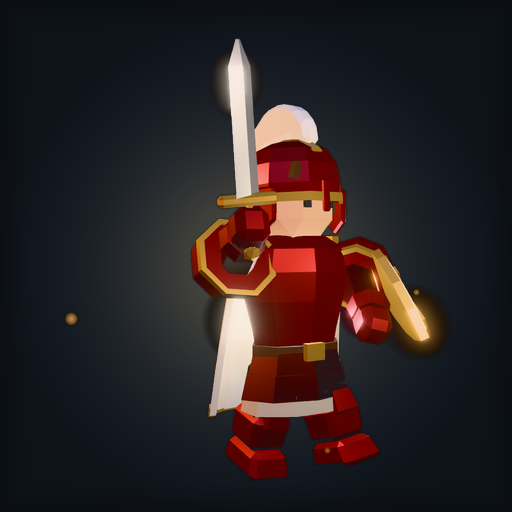
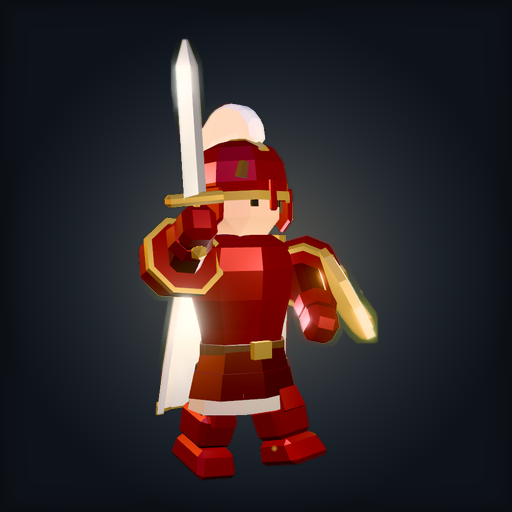
WIP: helpers in progress
Claude-Session: https://claude.ai/code/session_01Gz7SZPtYrWLv8AbBvzdLHQ

Changed region(s): [[0.25, 0.0625, 0.875, 0.9375], [0.125, 0.5938, 0.1562, 0.6562]]

diff --git a/tools/make_skin_pass_images.py b/tools/make_skin_pass_images.py
@@ -22,11 +22,11 @@ def skin_ids():
     return re.findall(r"^\s*([A-Za-z]+_[A-Za-z]+)\s*=", block, re.M)
 
 
-def render(skin, view):
+def render(skin, view, tag="dark", color="0,0,0"):
     os.makedirs(TMP, exist_ok=True)
-    path = os.path.join(TMP, skin + ".png")
+    path = os.path.join(TMP, skin + "_" + tag + ".png")
     subprocess.run(["bash", os.path.join(ROOT, "tools/preview/render.sh"), "showcase", "--device", "pc",
-                    "--set", "skin=" + skin, "--set", "view=" + view, "--set", "bg=slate", "--out", path],
+                    "--set", "skin=" + skin, "--set", "view=" + view, "--set", "bg=slate", "--set", "bgcolor=" + color, "--out", path],
                    check=True, stdout=subprocess.DEVNULL, stderr=subprocess.DEVNULL)
     return path
 
@@ -35,15 +35,21 @@ def grow(mask, r):
     return mask.filter(ImageFilter.MaxFilter(r))
 
 
-def compose(path, out):
-    img = Image.open(path).convert("RGB")
-    a = np.asarray(img).astype(np.int16)
-    bg = a[2:10, 2:10].reshape(-1, 3).mean(0)
-    diff = np.abs(a - bg).sum(2)
-    soft = np.clip((diff - 40) / 40.0, 0, 1)  # bloom halos stay transparent, edges stay soft
-    m = Image.fromarray(((diff > 60) * 255).astype(np.uint8))
+def compose(dark_path, light_path, out):
+    """Difference matting: the same render on a black and on a white background gives the
+    hero's alpha and true colour, so dark skins do not vanish into the dark picture."""
+    d_img = np.asarray(Image.open(dark_path).convert("RGB")).astype(np.float32)
+    l_img = np.asarray(Image.open(light_path).convert("RGB")).astype(np.float32)
+    bd = d_img[2:10, 2:10].reshape(-1, 3).mean(0)
+    bl = l_img[2:10, 2:10].reshape(-1, 3).mean(0)
+    span = np.abs(bl - bd).mean()
+    alpha = np.clip(1 - np.abs(l_img - d_img).mean(2) / span, 0, 1)
+    colour = np.clip((d_img - (1 - alpha[..., None]) * bd) / np.maximum(alpha[..., None], 0.02), 0, 255)
+    m = Image.fromarray(((alpha > 0.6) * 255).astype(np.uint8))
     core = grow(m.filter(ImageFilter.MinFilter(15)), 31)  # drops sparkles, keeps the hero
-    mask = (soft * (np.asarray(core) > 0) * 255).astype(np.uint8)
+    mask = (alpha * (np.asarray(core) > 0) * 255).astype(np.uint8)
+    colour = 255 * (colour / 255) ** 0.8 * 1.06  # the offline night lighting is dim: lift the hero a little
+    img = Image.fromarray(np.clip(colour, 0, 255).astype(np.uint8))
     ys, xs = np.where(np.asarray(m.filter(ImageFilter.MinFilter(15))) > 0)
     x0, x1, y0, y1 = xs.min(), xs.max(), ys.min(), ys.max()
     side = int(max(x1 - x0, y1 - y0) * 1.2)
@@ -55,7 +61,7 @@ def compose(path, out):
     # background: dark slate, brighter in the middle, soft gold glow behind the hero, vignette
     yy, xx = np.mgrid[0:SIZE, 0:SIZE].astype(np.float32)
     d = np.sqrt(((xx - SIZE / 2) / (SIZE / 2)) ** 2 + ((yy - SIZE * 0.52) / (SIZE / 2)) ** 2)
-    base = np.array([34, 44, 58], np.float32)  # slate_700-ish
+    base = np.array([48, 60, 78], np.float32)  # slate_700-ish
     dark = np.array([14, 19, 26], np.float32)  # slate_950
     gold = np.array([213, 176, 98], np.float32)
     t = np.clip(d, 0, 1.4)[..., None]
@@ -80,7 +86,7 @@ def main():
         if args.only and skin != args.only:
             continue
         print(skin, flush=True)
-        compose(render(skin, args.view), os.path.join(OUT, skin + ".png"))
+        compose(render(skin, args.view), render(skin, args.view, "light", "255,255,255"), os.path.join(OUT, skin + ".png"))
 
 
 if __name__ == "__main__":
